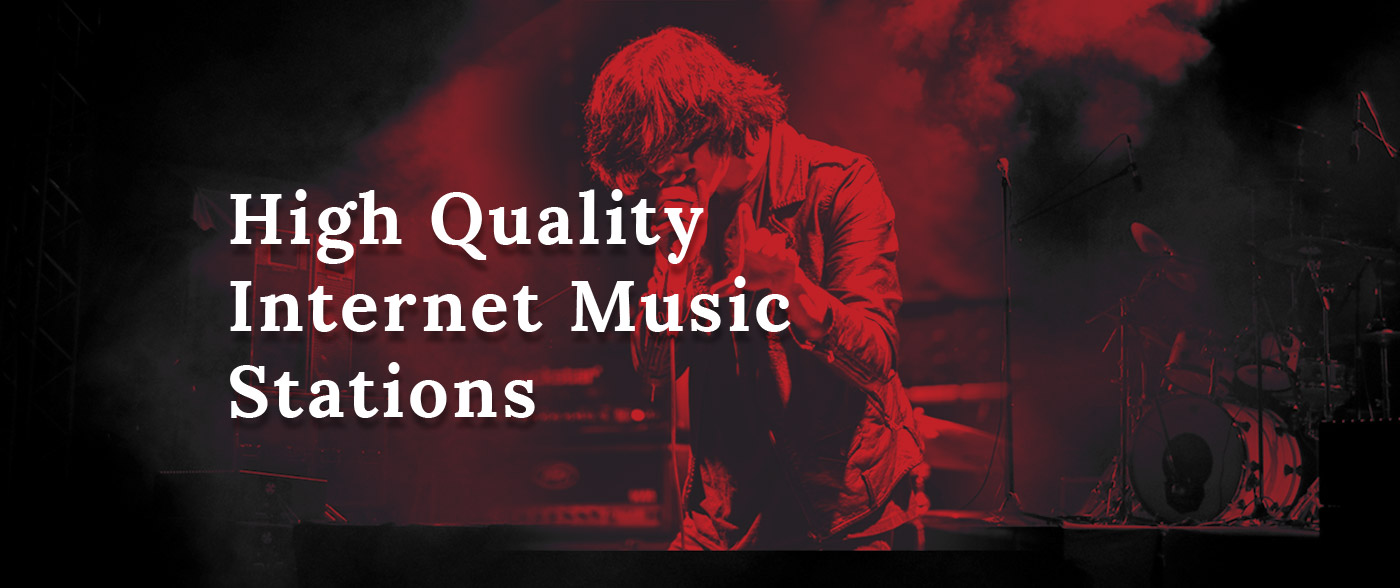
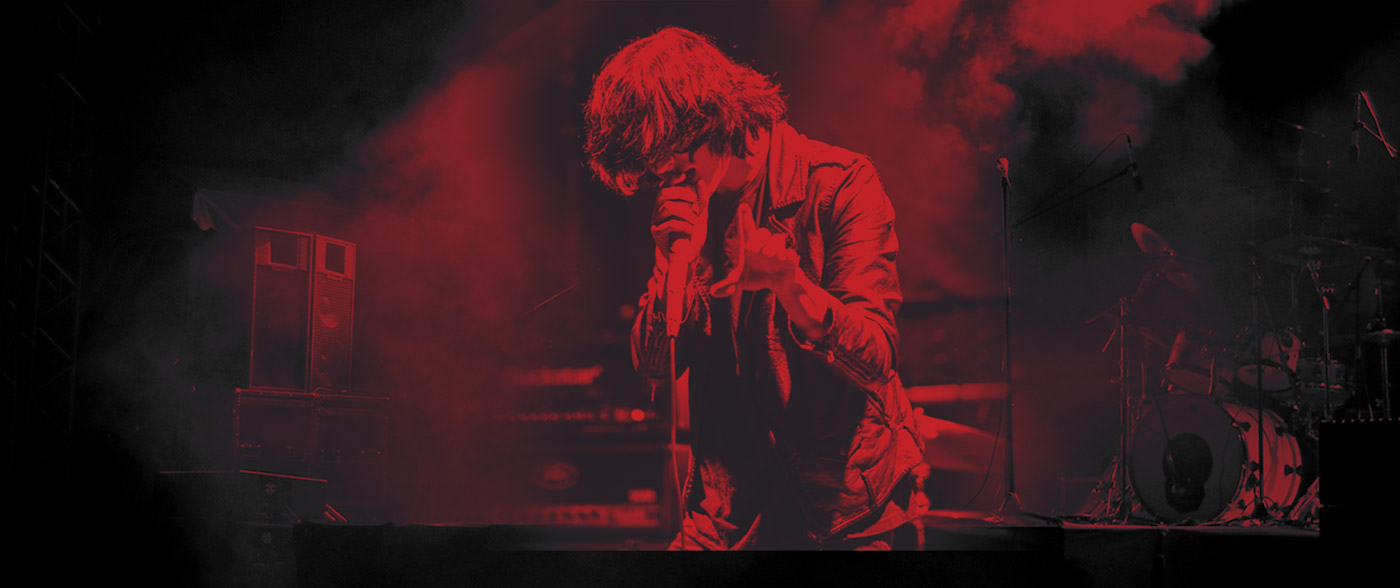
заголовок страницы

Changed region(s): [[0.1536, 0.3061, 0.5836, 0.5816], [0.1536, 0.6122, 0.3993, 0.7347]]

diff --git a/soulvibes_tars/markup/static/less/common.less b/soulvibes_tars/markup/static/less/common.less
@@ -65,6 +65,20 @@ input[type="radio"].visually-hidden {
     height: 549px;
 }
 
+.promo-image__title {
+    position: absolute;
+    top: 130px;
+
+    width: 560px;
+    .pd-page();
+
+    font-family: 'Lora', Times, serif;
+    font-size: 72px;
+    line-height: 1.2em;
+    font-weight: 700;
+    color: @white;
+}
+
 .promo-image__img {
     display: block;
 
